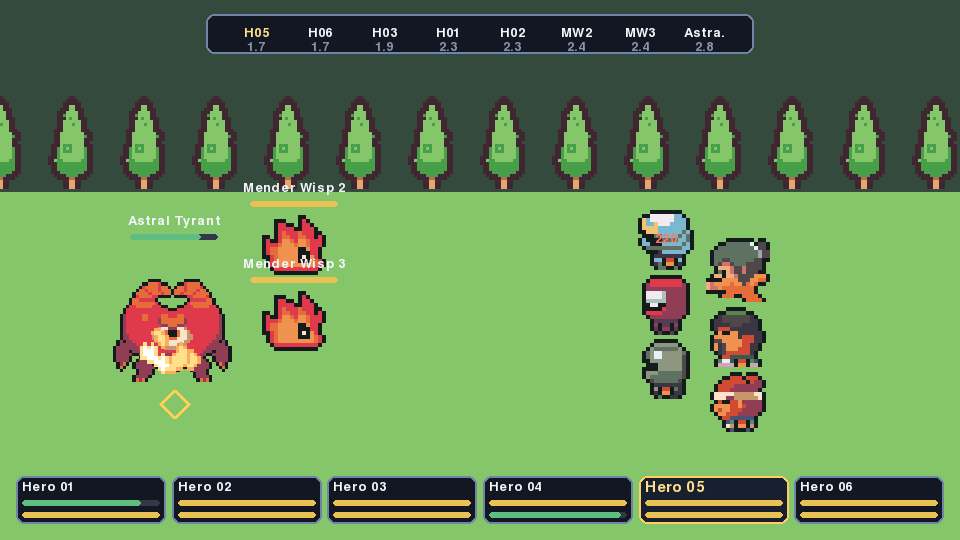
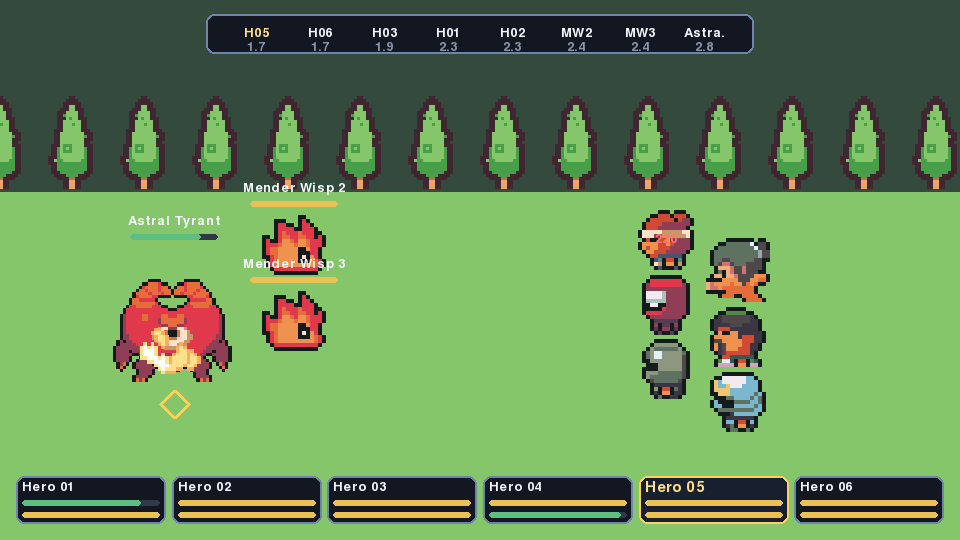
test(real-machine): boss camera check in a real window; refreshed evidence after CB10/CAM-02
- new check field_camera_boss_focus: runs the reference boss event in a
  real cocoa window, measures zoom (1.60 = authored), map coverage and the
  boss moving to the screen centre; saves before/after screenshots
- re-ran all checks on Apple M5 / macOS: GPU, input event queue, audio
  device, animation, frame pacing (58.99 fps, p99 18.3 ms), boss camera,
  editor playtest, exit, recovery PASS; controller BLOCKED (none
  connected); physical keyboard, audible audio, latency NOT EXECUTED
  (need a person, procedures M1-M4)

Changed region(s): [[0.7188, 0.6815, 0.8125, 0.8], [0.6562, 0.3852, 0.7188, 0.5037]]

diff --git a/scripts/real_machine_validation.py b/scripts/real_machine_validation.py
@@ -247,6 +247,49 @@ def check_battle_frame_pacing(out):
     ]
 
 
+def check_field_camera(out):
+    """CAM-02: the boss event's camera focus in a real window (zoom, map coverage, boss framing)."""
+    import pygame
+
+    from asteria.core import Transform
+
+    runtime = _runtime()
+    runtime.open()
+    driver = pygame.display.get_driver()
+    runtime._ui_mode = "field"
+    boss = next(e for e in runtime.game.scene.entities() if e.name == "Astral Tyrant").get(Transform)
+
+    def run(seconds):
+        start = time.perf_counter()
+        while time.perf_counter() - start < seconds:
+            dt = min(runtime.clock.tick(60) / 1000.0, 0.05)
+            runtime._frame(pygame.event.get(), dt)
+            pygame.display.flip()
+
+    run(0.5)
+    before = runtime._field_screen_xy(boss.x, boss.y)
+    pygame.image.save(runtime.screen, str(out / "field_camera_home.png"))
+    runtime.game.events.start("boss_interaction_event", replace=True)
+    run(1.5)  # focus blend is 0.8 s; the boss line is on screen meanwhile
+    after = runtime._field_screen_xy(boss.x, boss.y)
+    zoom = runtime.field_camera.zoom
+    bx, by, bw, bh = runtime.field_camera.background_rect()
+    covered = bx <= 0 and by <= 0 and bx + bw >= runtime.width - 1e-6 and by + bh >= runtime.height - 1e-6
+    pygame.image.save(runtime.screen, str(out / "field_camera_boss_focus.png"))
+    runtime.close()
+    centre = (runtime.width / 2, runtime.height / 2)
+    closer = abs(after[0] - centre[0]) < abs(before[0] - centre[0])
+    ok = abs(zoom - 1.6) < 1e-6 and covered and closer
+    return result(
+        "field_camera_boss_focus",
+        "PASS" if ok else "FAIL",
+        f"Boss event camera in a real {driver} window: zoom {zoom:.2f} (authored 1.6), map image covers the "
+        f"screen={covered}, boss moved from x={before[0]:.0f} to x={after[0]:.0f} (screen centre {centre[0]:.0f})",
+        screenshots=["field_camera_home.png", "field_camera_boss_focus.png"],
+        note="Whether the move feels right to a player is part of manual item M5.",
+    )
+
+
 def check_editor_playtest(out):
     from PySide6.QtWidgets import QApplication
 
@@ -348,6 +391,7 @@ CHECKS = {
     "input": check_input,
     "audio": check_audio,
     "battle": check_battle_frame_pacing,
+    "field_camera": check_field_camera,
     "editor": check_editor_playtest,
     "runtime": check_runtime_exit_and_recovery,
 }
